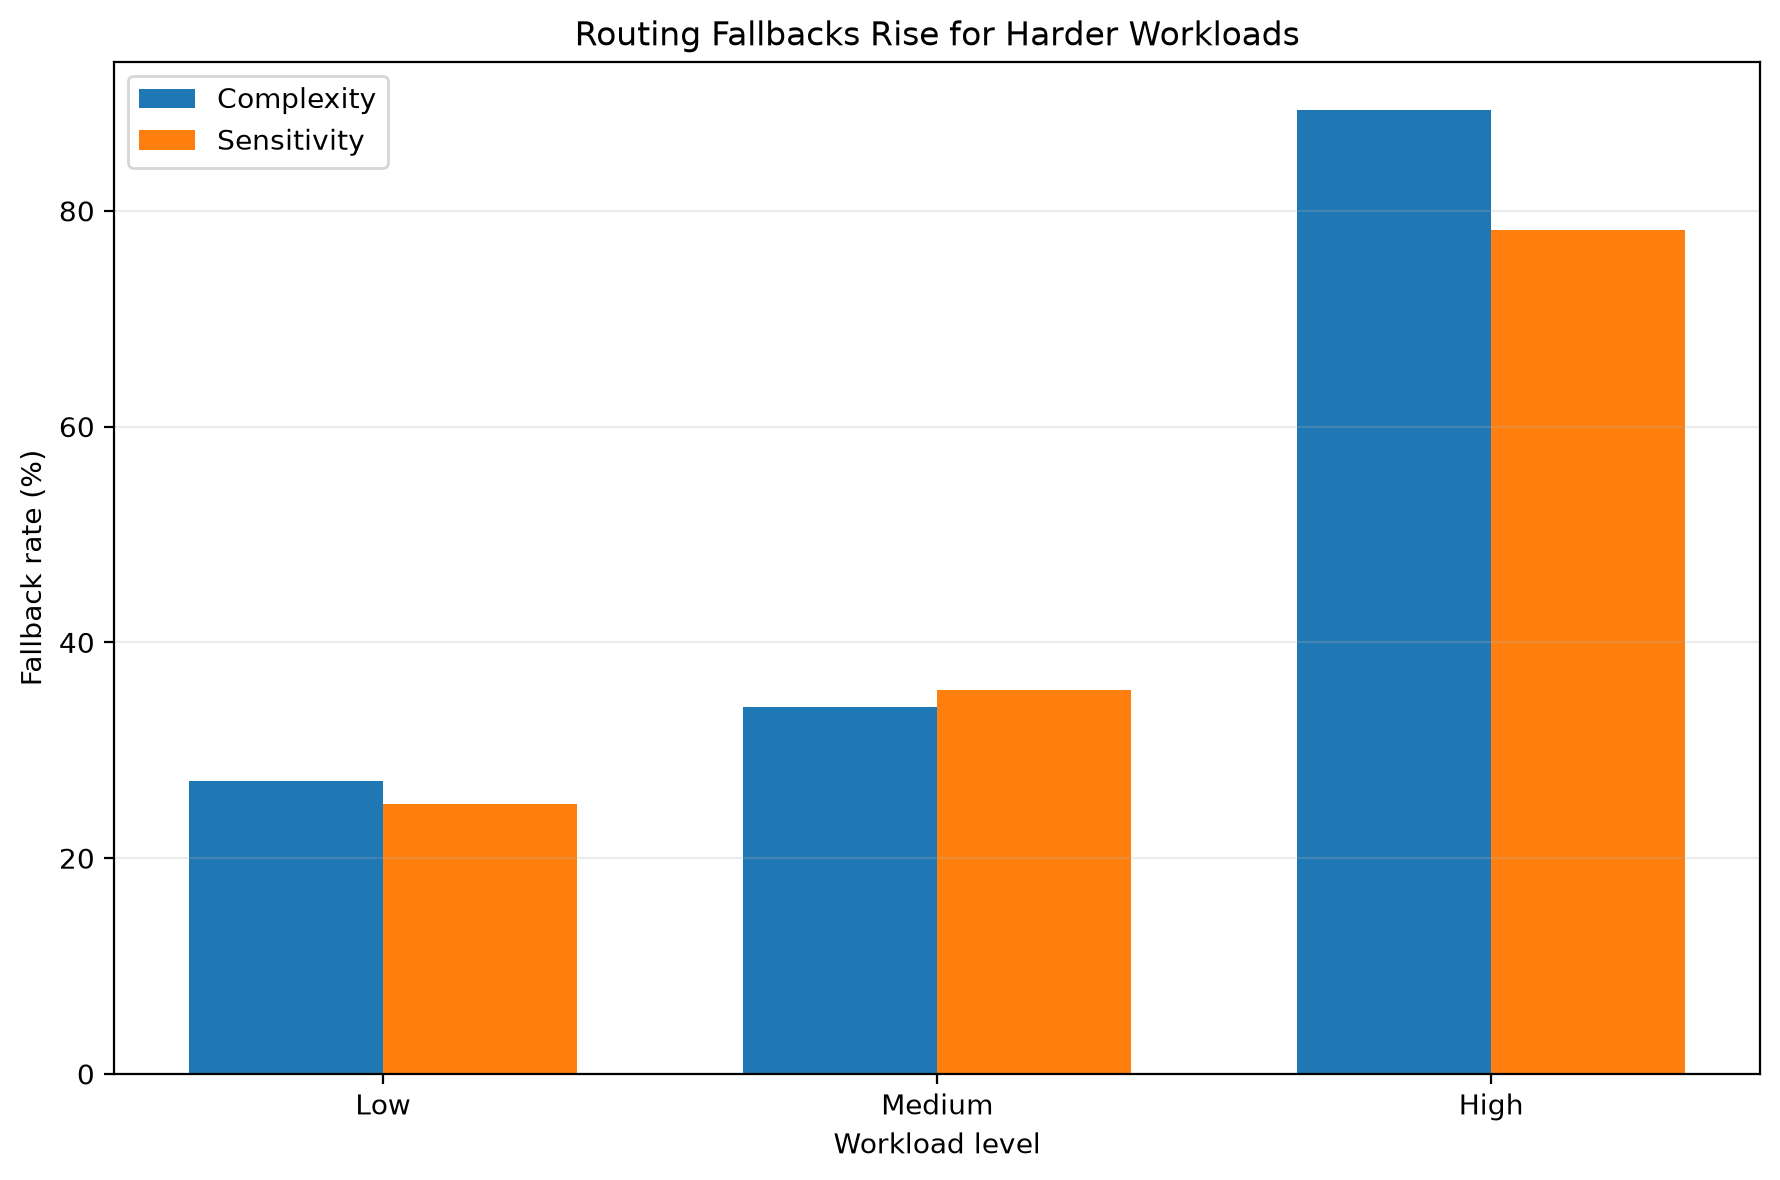
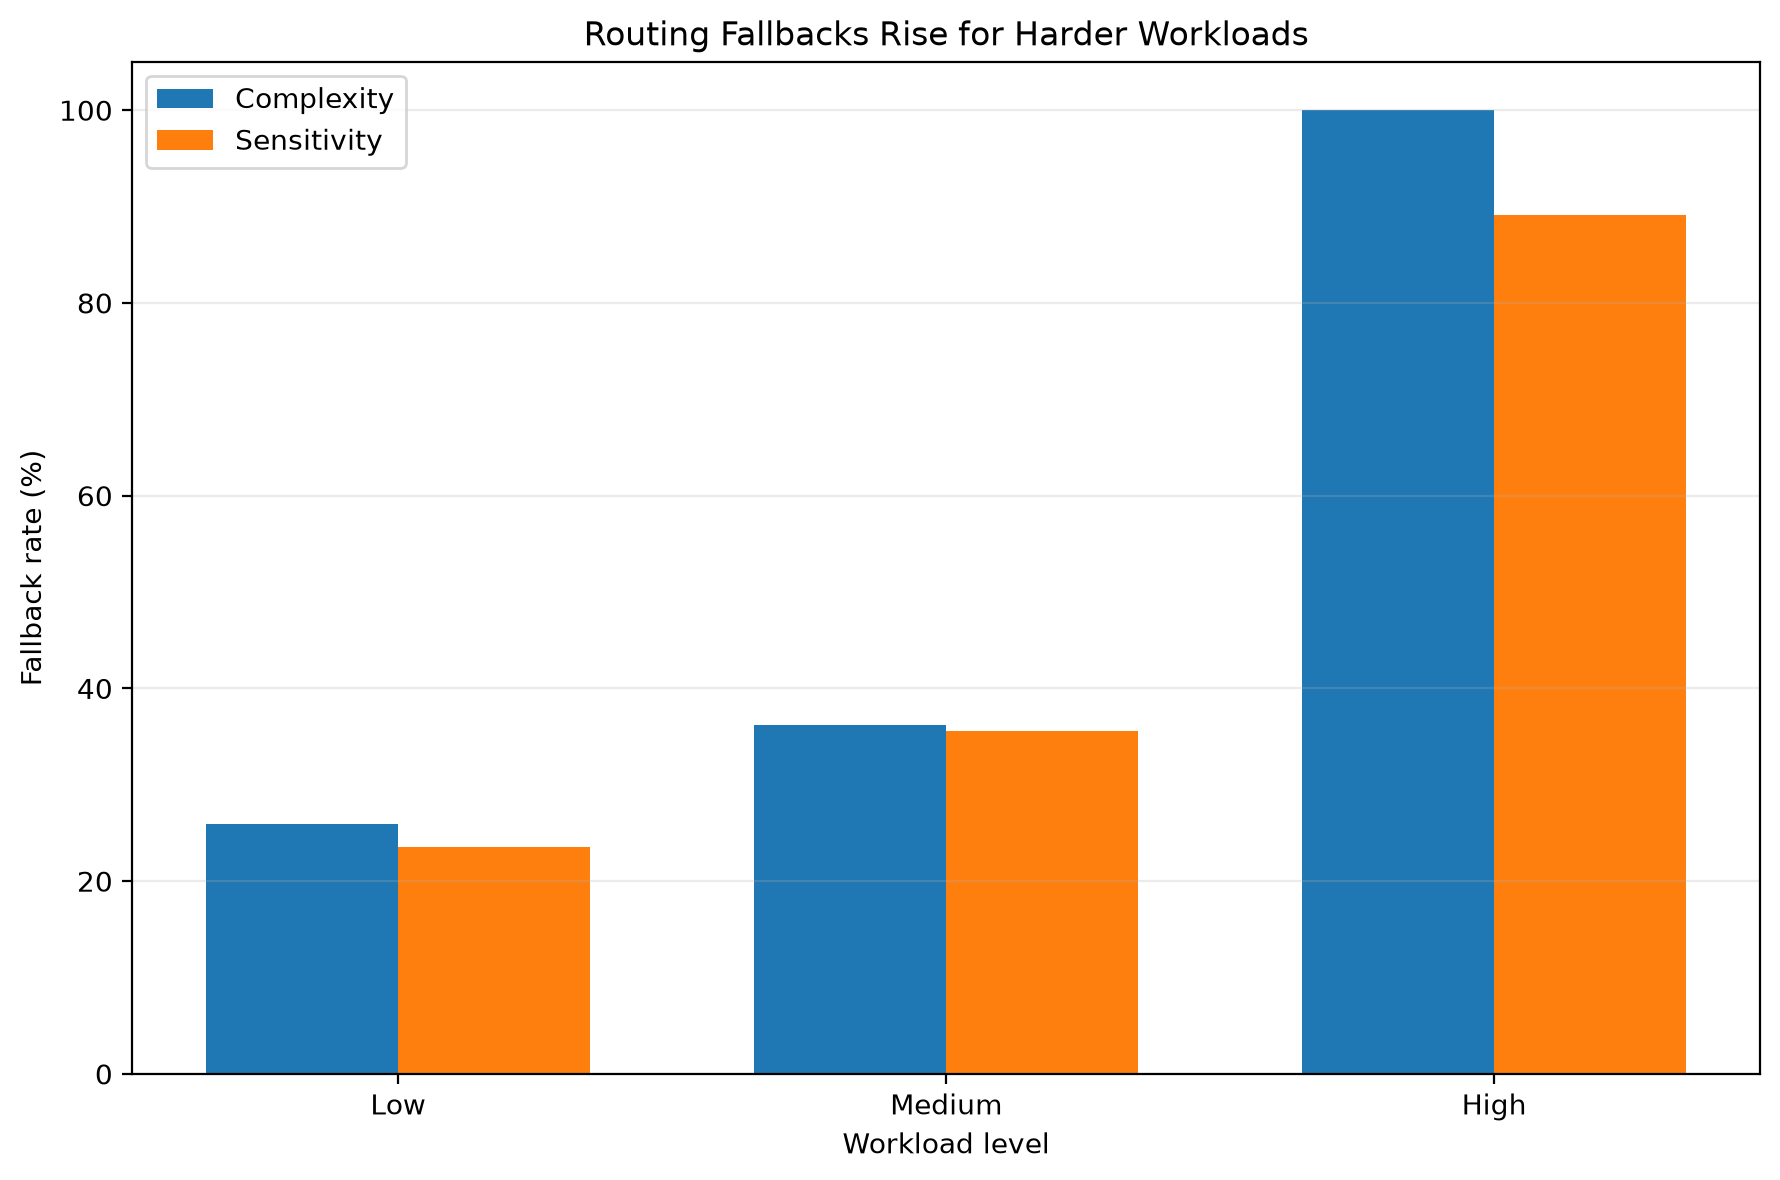
Fix routing leakage and refresh benchmark results

diff --git a/src/routing/policy.py b/src/routing/policy.py
@@ -162,7 +162,7 @@ def select_tool(group, policy="balanced"):
     feasible = group[
     (group["allowed"])
     & (
-        group["quality_score"]
+        group["expected_quality"]
         >= constraints["min_quality"]
     )
     & (
@@ -170,11 +170,11 @@ def select_tool(group, policy="balanced"):
         >= constraints["min_success_probability"]
     )
     & (
-        group["human_corrections"]
+        group["expected_corrections"]
         <= constraints["max_corrections"]
     )
     & (
-        group["latency_ms"]
+        group["expected_latency_ms"]
         <= constraints["max_latency_ms"]
     )
 ]

diff --git a/README.md b/README.md
@@ -43,6 +43,8 @@ A medium-sensitivity technical reasoning workload uses a verified cascade, allow
 ![Verified Cascade Routing](assets/routing_verified_cascade.png)
 
 **Routing decision:** `verified_cascade`
+
+
 ---
 
 ## Research Questions
@@ -277,10 +279,10 @@ Representative results:
 
 | Policy | Cost change | Success | Quality | Latency change | Correction change | Frontier usage | Constraint satisfaction |
 |---|---:|---:|---:|---:|---:|---:|---:|
-| Cost optimized | -42.8% | 0.928 | 0.871 | -21.4% | -24.8% | 26.4% | 77.6% |
-| Balanced | -20.2% | 0.908 | 0.860 | -9.0% | -23.3% | 36.8% | 53.2% |
-| Reliability first | -2.6% | 0.904 | 0.857 | +1.1% | -27.9% | 44.8% | 36.0% |
-| Strict | -0.6% | 0.904 | 0.855 | +2.0% | -26.7% | 46.0% | 23.2% |
+| Cost optimized | -47.6% | 0.884 | 0.843 | -23.9% | -14.8% | 20.4% | 74.0% |
+| Balanced | -26.0% | 0.932 | 0.861 | -13.6% | -25.0% | 30.0% | 48.0% |
+| Reliability first | +2.1% | 0.952 | 0.872 | +1.0% | -24.1% | 44.8% | 8.0% |
+| Strict | +2.1% | 0.952 | 0.872 | +1.0% | -24.1% | 44.8% | 8.0% |
 
 ![Policy tradeoffs](results/figures/policy_tradeoffs.png)
 
@@ -298,12 +300,13 @@ The balanced routing policy is therefore evaluated across multiple seeds.
 
 Across 10 representative simulation seeds, the balanced policy produced approximately:
 
-- **20.7% average cost reduction**
-- **17.6 percentage-point increase in task success**
-- **0.084 increase in average quality**
-- **8.4% lower latency**
-- **28.3% fewer human corrections**
-- **6.4 percentage-point reduction in frontier-model usage**
+- **27.0% average cost reduction**
+- **14.6 percentage-point increase in task success**
+- **0.063 increase in average quality**
+- **12.2% lower latency**
+- **19.8% fewer human corrections**
+- **11.1 percentage-point reduction in frontier-model usage**
+- **48.0% average constraint satisfaction**
 
 ![Routing impact](results/figures/routing_impact.png)
 
@@ -1213,8 +1216,8 @@ For the analyzed balanced-policy run:
 
 | Workload characteristic | Low | Medium | High |
 |---|---:|---:|---:|
-| Complexity fallback rate | 27.2% | 34.0% | 89.3% |
-| Sensitivity fallback rate | 25.0% | 35.6% | 78.3% |
+| Complexity fallback rate | 25.9% | 36.2% | 100.0% |
+| Sensitivity fallback rate | 23.5% | 35.6% | 89.1% |
 
 ![Constraint failures](results/figures/constraint_failures.png)
 
@@ -1230,16 +1233,16 @@ Sometimes the limiting factor is the **capability frontier of the available tool
 
 ### 1. Workload-aware routing can outperform static allocation within the simulation
 
-Across 10 simulation seeds, the balanced routing policy reduced simulated cost by an average of **20.7%** while increasing task success by **17.6 percentage points**.
+Across 10 simulation seeds, the balanced routing policy reduced simulated cost by an average of **27.0%** while increasing task success by **14.6 percentage points**.
 
 ### 2. Improvements extend beyond cost
 
 The balanced policy also produced:
 
-- **8.4% lower latency**
-- **28.3% fewer human corrections**
-- **0.084 higher average quality**
-- **6.4 percentage-point lower frontier-model usage**
+- **12.2% lower latency**
+- **19.8% fewer human corrections**
+- **0.063 higher average quality**
+- **11.1 percentage-point lower frontier-model usage**
 
 ### 3. More restrictive policies are not necessarily better
 
@@ -1584,7 +1587,7 @@ This project is a **simulation and evaluation framework**, not a production benc
 
 Tool behavior, cost, latency, quality, and reliability in the core routing experiments are synthetically generated according to assumptions encoded in the simulation.
 
-Therefore, results such as the 20.7% average cost reduction should be interpreted as evidence about the behavior of the routing framework **within the simulated environment**, not as expected savings from deploying the system in a real organization.
+Therefore, results such as the 27.0% average cost reduction should be interpreted as evidence about the behavior of the routing framework **within the simulated environment**, not as expected savings from deploying the system in a real organization.
 
 The counterfactual outcomes are simulated rather than observed from repeated execution of identical tasks across real models.
 
